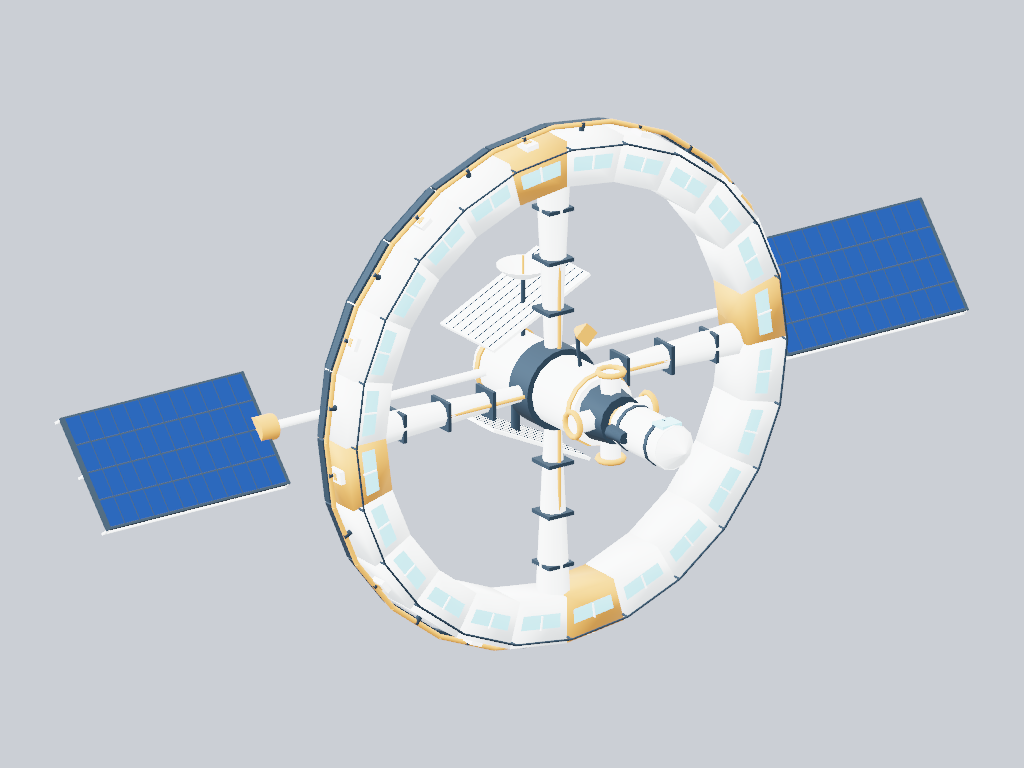
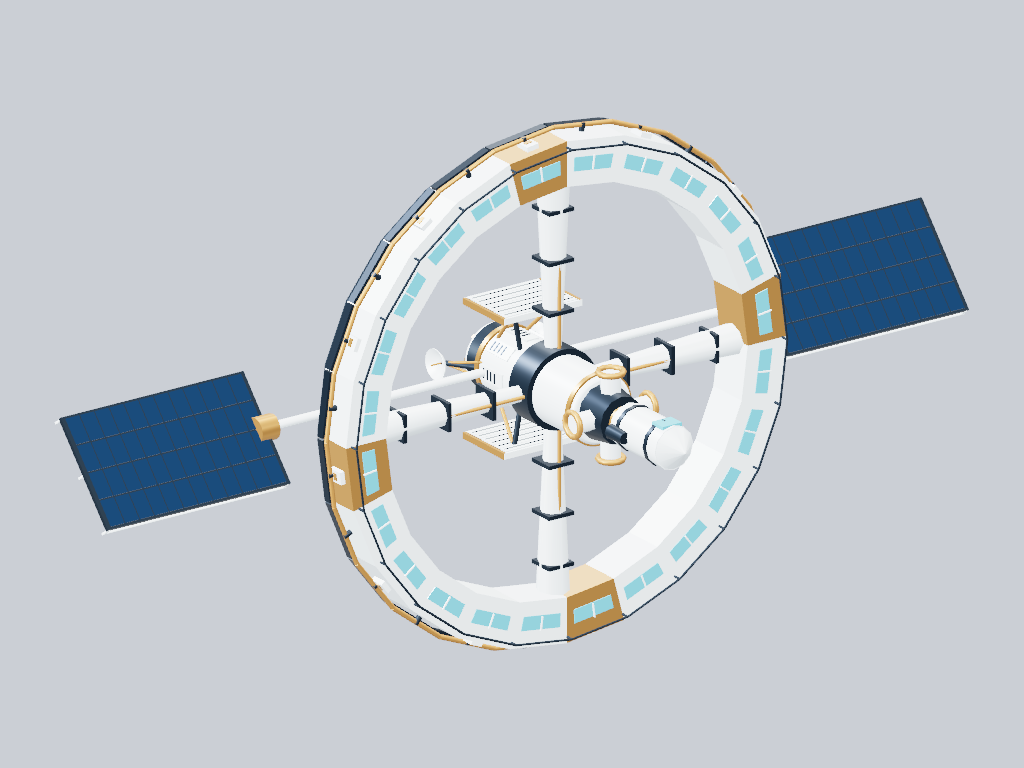
Refine orbital station rear symmetry and refresh gallery media

diff --git a/site/examples/history/orbital-station/original.kiln.js b/site/examples/history/orbital-station/original.kiln.js
@@ -1,13 +1,16 @@
 // Authored by: gpt-6-astra, via codex.
 //
-// Original model-authored station retained in site/examples/history/orbital-station.
-// Maintainer revision: Codex refinement following owner feedback on the rear assembly.
-// This revision uses the existing source and repository context.
+// Written by the model itself through the Kiln MCP tools: it wrote the
+// program, rendered it, looked at its own six-view contact sheet, and
+// revised. Not a line of it is hand-authored.
+//
+// Dispatched into a clean directory containing only the brief and the Kiln
+// skills, with no access to this repository or to any finished example.
 
 const meta = { name: 'OrbitalStation', category: 'prop' };
 function build() {
  const root=createRoot('OrbitalStation');
- const white=gameMaterial(0xbfcbd0,{metalness:0.22,roughness:0.42,flatShading:false}), dark=gameMaterial(0x202d38,{metalness:0.65,roughness:0.38,flatShading:false}), blue=gameMaterial(0x153450,{metalness:0.55,roughness:0.26,flatShading:false}), glass=gameMaterial(0x4393a5,{metalness:0.25,roughness:0.23,emissive:0x174857,emissiveIntensity:0.18,flatShading:false}), gold=gameMaterial(0xa67b44,{metalness:0.72,roughness:0.34,flatShading:false});
+ const white=gameMaterial(0xdce3e4,{roughness:0.6}), dark=gameMaterial(0x293a47,{metalness:0.6}), blue=gameMaterial(0x193f79,{metalness:0.5,roughness:0.3}), glass=gameMaterial(0x63b7c9,{emissive:0x286778,emissiveIntensity:0.35}), gold=gameMaterial(0xc58b43,{metalness:0.5});
  const frame=createPivot('Station',[0,10.25,0],root);
  const rotor=createPivot('HabitatRotor',[0,0,0],frame);
  const part=(n,g,m,p,parent=frame,r=[0,0,0])=>createPart(n,g,m,{position:p,parent,rotation:r});
@@ -16,7 +19,7 @@ function build() {
  function wedge(r0,r1,x0,x1,a0,a1) {
   const v=[];for(const x of [x0,x1])for(const r of [r0,r1])for(const a of [a0,a1])v.push(...ringPoint(x,r,a));
   const g=new THREE.BufferGeometry();g.setAttribute('position',new THREE.Float32BufferAttribute(v,3));
-  g.setIndex([0,1,3,0,3,2,4,6,7,4,7,5,0,4,5,0,5,1,2,3,7,2,7,6,0,2,6,0,6,4,1,5,7,1,7,3]);const solid=g.toNonIndexed();solid.computeVertexNormals();return solid;
+  g.setIndex([0,1,3,0,3,2,4,6,7,4,7,5,0,4,5,0,5,1,2,3,7,2,7,6,0,2,6,0,6,4,1,5,7,1,7,3]);g.computeVertexNormals();return g;
  }
  for(let i=0;i<24;i++){
   const a=i*Math.PI/12, b=(i+1)*Math.PI/12, mid=(a+b)/2;
@@ -41,25 +44,9 @@ function build() {
   beam('SpokeService'+i,[0.4,1.4,0],[0.4,8.2,0],0.08,gold,p);
   for(let j=0;j<3;j++)part('SpokeFlange'+i+'_'+j,boxGeo(1.12,0.15,1.12),dark,[0,3+j*2,0],p);
  }
- const hubShell=lathe([[0,-3.2],[1.2,-3.2],[1.35,-3.04],[1.35,3.04],[1.2,3.2],[0,3.2]],48);hubShell.rotateZ(-Math.PI/2);
- part('FixedHub',hubShell,white,[0,0,0]);
- part('RotorBearing',cylinderXGeo(1.58,1.58,1.2,48),dark,[0,0,0]);
- for(const x of [-2.9,2.9])part('HubEndBand'+x,cylinderXGeo(1.43,1.43,0.22,48),gold,[x,0,0]);
- // A recessed axial service port, surrounded by a structural annulus.
- // The dark backing sits behind the lip, so the end reads as a cavity rather than a blank cap.
- part('AftPressureBulkhead',cylinderXGeo(1.22,1.35,0.48,48),dark,[-3.38,0,0]);
- part('AftPortRecess',cylinderXGeo(0.84,0.84,0.08,48),dark,[-3.66,0,0]);
- const aftRing=(name,radius,tube,x,mat)=>part(name,torusGeo(radius,tube,8,48),mat,[x,0,0],frame,[0,90,0]);
- aftRing('AftStructuralLip',1.16,0.16,-3.68,white);
- aftRing('AftSeal',0.91,0.07,-3.72,gold);
- part('ServiceHatch',cylinderXGeo(0.64,0.64,0.06,32),white,[-3.73,0,0]);
- part('HatchSplit',boxGeo(0.025,1.08,0.035),dark,[-3.77,0,0]);
- for(let i=0;i<8;i++){
-  const a=i*Math.PI/4;
-  part('AftLatch'+i,boxGeo(0.18,0.2,0.16),gold,ringPoint(-3.83,1.13,a),frame,[a*180/Math.PI,0,0]);
-  part('HubServicePanel'+i,boxGeo(1.4,0.12,0.55),white,ringPoint(-1.98,1.34,a),frame,[a*180/Math.PI,0,0]);
-  for(let j=0;j<4;j++)part('HubVent'+i+'_'+j,boxGeo(0.065,0.025,0.38),dark,ringPoint(-2.42+j*0.23,1.415,a),frame,[a*180/Math.PI,0,0]);
- }
+ part('FixedHub',cylinderXGeo(1.35,1.35,6.4,16),white,[0,0,0]);
+ part('RotorBearing',cylinderXGeo(1.58,1.58,1.2,24),dark,[0,0,0]);
+ for(const x of [-2.9,2.9])part('HubEndBand'+x,cylinderXGeo(1.43,1.43,0.22,16),gold,[x,0,0]);
  const dock=createPivot('DockingNode',[3.7,0,0],frame);
  part('DockingManifold',cylinderXGeo(0.95,1.15,1.4,12),dark,[0,0,0],dock);
  for(let i=0;i<4;i++){
@@ -88,33 +75,19 @@ function build() {
    beam('ArrayCrossbar_'+s+'_'+j,[-2.3,-0.12,-4+j*1.14],[2.3,-0.12,-4+j*1.14],0.045,white,wing);
    beam('ArrayTruss_'+s+'_'+j,[-2.25,-0.36,-4+j],[2.25,-0.12,-3+j],0.045,white,wing);
   }
-  // Mirrored, double-sided thermal cassettes, with a visible load path to the hub.
-  const rad=createPivot('Radiator'+s,[-1.95,s*2.65,0],frame);
-  for(const z of [-0.9,0.9]){
-   beam('RadiatorRoot'+s+'_'+z,[-1.2,s*0.92,z*0.65],[-1.2,s*2.65,z],0.11,dark);
-   beam('RadiatorBrace'+s+'_'+z,[-2.85,s*0.92,z*0.65],[-1.2,s*2.65,z],0.075,gold);
-  }
-  part('ThermalCassette_'+s,boxGeo(2.55,0.2,3.5),dark,[0,0,0],rad);
-  for(const face of [-1,1]){
-   for(let j=0;j<6;j++){
-    part('ThermalTile_'+s+'_'+face+'_'+j,boxGeo(0.37,0.045,3.18),white,[-1.025+j*0.41,face*0.12,0],rad);
-    part('ThermalTube_'+s+'_'+face+'_'+j,boxGeo(0.025,0.025,3.05),dark,[-1.025+j*0.41,face*0.155,0],rad);
-   }
-  }
-  for(const z of [-1.7,1.7])part('RadiatorHeader'+s+'_'+z,boxGeo(2.62,0.25,0.12),gold,[0,0,z],rad);
-  for(const x of [-1.28,1.28])part('RadiatorEdge'+s+'_'+x,boxGeo(0.09,0.24,3.5),white,[x,0,0],rad);
+  const rad=createPivot('Radiator'+s,[-2.4,s*2.6,0],frame);rad.rotation.x=s*0.45;
+  beam('RadiatorMount'+s,[-2.4,s*1,0],[-2.4,s*2.6,0],0.18,dark);
+  part('WhiteThermalPanel_'+s,boxGeo(3.4,0.12,4.8),white,[0,0,0],rad);
+  for(let j=0;j<7;j++)part('RadiatorChannel_'+s+'_'+j,boxGeo(0.035,0.025,4.65),dark,[-1.4+j*0.46,0.075,0],rad);
  }
- // Paired communications pods flank the aft port. No isolated top mast or horn:
- // the rear service assembly is mirrored across both its vertical and lateral axes.
- for(const s of [-1,1]){
-  beam('CommsOutrigger'+s,[-2.9,0,s*1.2],[-4.15,0,s*2.05],0.12,dark);
-  for(const y of [-0.35,0.35])beam('CommsBrace'+s+'_'+y,[-2.5,y,s*1.18],[-4.15,0,s*2.05],0.055,gold);
-  const pod=createPivot('CommsPod'+s,[-4.15,0,s*2.05],frame);pod.rotation.x=s*Math.PI/2;
-  part('CommunicationsDish'+s,lathe([[0,0],[0.2,0.025],[0.43,0.13],[0.6,0.29],[0.6,0.35],[0.42,0.19],[0.18,0.085],[0,0.06]],32),white,[0,0,0],pod);
-  beam('DishFeed'+s,[0,0,0],[0,0.5,0],0.035,gold,pod);
- }
+ beam('DishMast',[-1.9,1.1,0],[-1.9,3.6,0],0.1,dark);
+ part('CommunicationsDish',lathe([[0,0],[0.3,0.04],[0.65,0.2],[1,0.48],[1,0.54],[0.64,0.26],[0.28,0.1],[0,0.07]],16),white,[-1.9,3.6,0]);
+ beam('DishFeed',[-1.9,3.6,0],[-1.9,4.5,0],0.05,gold);
+ beam('HornMast',[1.8,0.9,0],[1.8,2.8,0.2],0.09,dark);
+ part('HornAntenna',cylinderXGeo(0.48,0.12,0.7,4),gold,[2.12,2.8,0.2]);
  root.updateMatrixWorld(true);
  const bounds=new THREE.Box3().setFromObject(root);frame.position.y-=bounds.min.y;
  return root;
 }
 function animate(){ return [createClip('HabitatRotation',60,[rotationTrack('Joint_HabitatRotor',[0,15,30,45,60].map((time,i)=>({time,rotation:[i*90,0,0]})))])]; }
+

diff --git a/docs/evaluation/orbital-refinement.md b/docs/evaluation/orbital-refinement.md
@@ -1,0 +1,37 @@
+# Orbital station refinement
+
+Owner-directed refinement of the rear radiator assembly. Both radiator pivots now
+have identity rotation and positions `[-1.95, -2.65, 0]` and `[-1.95, 2.65, 0]`.
+The plates are parallel, equal-sized, and use mirrored supports. Paired communication
+dishes replace the solitary dish/horn; the hub gains a recessed service hatch,
+mechanical latches, ventilation panels, chamfered ends and smoother materials.
+
+The original and current source are retained in
+`site/examples/history/orbital-station/`. Updated provenance distinguishes the
+original authoring session from this source-aware refinement. No new provider call
+was made. This is a visual refinement, not a claim of AAA production certification.
+
+## Review outputs
+
+- README and examples page use the updated square GPU render.
+- Local site assets and hero poster rebuilt; all 62 source/GLB/poster pairs verified.
+- Local browser confirmed the new 15,040-triangle model and revision-history control.
+- Both private posting grids regenerated in `tmp/launch-kit/F-gallery-grid/`;
+  station image copies and the private media manifest updated.
+- `tmp/orbital-review/` contains before/after detail images, full hero image,
+  an optional optimized GLB and verification records. The optimized export has
+  23 mesh draws versus the editable artifact's 635, preserves 15,040 triangles,
+  bounds and the HabitatRotation clip, and has zero glTF validator errors/warnings.
+  Its reviewed GPU image differs by less than 0.0001 mean channel levels from the
+  editable artifact. It is separate from the editable gallery download.
+
+## Validation
+
+Typecheck, lint (existing warnings/information), site build, asset hash verification,
+exact GPU poster captures, radiator orientation checks and GLB validation passed.
+Local Windows full tests: 1,737 pass, 2 skip, 5 fail. The failures are four `probeRenderService`
+cases and `HTTP adapter forwards exact cameras and artifact fidelity`; each reports
+`Failed to start server. Is port 0 in use?`. No runtime implementation was changed.
+
+These results describe local review. The repository's CI and Gallery workflow
+records establish subsequent source validation and public deployment status.

diff --git a/docs/examples.md b/docs/examples.md
@@ -12,7 +12,7 @@ Browse the [interactive gallery](https://kilnstudio.tools/#/gallery), or open a 
   <td width="33%" valign="top"><a href="../examples/renders/mechanical-peacock.png"><img src="../examples/renders/mechanical-peacock.png" alt="Brass mechanical peacock with an articulated jewel-colored fan"></a><br><b><a href="../examples/mechanical-peacock.kiln.js">mechanical-peacock</a></b><br>44,688 tris &middot; Claude Opus 5<br><sub>Articulated enamel fan; neck connection repaired by a Codex maintainer agent</sub></td>
 </tr>
 <tr>
-  <td width="33%" valign="top"><a href="../examples/renders/orbital-station.png"><img src="../examples/renders/orbital-station.png" alt="a rotating-torus orbital station with lit window bands, four spokes, a docking hub and solar wings, generated by Kiln"></a><br><b><a href="../examples/orbital-station.kiln.js">orbital-station</a></b><br>10,212 tris &middot; GPT-6 Astra<br><sub>Habitat ring, solar arrays and docking modules</sub></td>
+  <td width="33%" valign="top"><a href="../examples/renders/orbital-station.png"><img src="../examples/renders/orbital-station.png" alt="a rotating-torus orbital station with lit window bands, four spokes, a docking hub and solar wings, generated by Kiln"></a><br><b><a href="../examples/orbital-station.kiln.js">orbital-station</a></b><br>15,040 tris &middot; GPT-6 Astra<br><sub>Habitat ring, solar arrays and docking modules</sub></td>
   <td width="33%" valign="top"><a href="../examples/renders/abyssal-surveyor.png"><img src="../examples/renders/abyssal-surveyor.png" alt="Custom curved hull, guarded thrusters and articulated sampling arm"></a><br><b><a href="../examples/abyssal-surveyor.kiln.js">abyssal-surveyor</a></b><br>34,456 tris &middot; GPT-6 Astra<br><sub>Custom curved hull, guarded thrusters and articulated sampling arm</sub></td>
   <td width="33%" valign="top"><a href="../examples/renders/kestrel-rescue-craft.png"><img src="../examples/renders/kestrel-rescue-craft.png" alt="Sculpted rescue aircraft with articulated tilt rotors"></a><br><b><a href="../examples/kestrel-rescue-craft.kiln.js">kestrel-rescue-craft</a></b><br>54,272 tris &middot; GPT-6 Astra<br><sub>Sculpted rescue aircraft with articulated tilt rotors</sub></td>
 </tr>

diff --git a/README.md b/README.md
@@ -17,11 +17,17 @@ the model; Kiln does not require a separate model API key for its tools.
 | --- | --- | --- |
 | [![Curved-hull survey submersible with an articulated sampling arm](examples/renders/abyssal-surveyor.png)](examples/abyssal-surveyor.kiln.js) | [![Mechanical typewriter](examples/renders/typewriter.png)](examples/typewriter.kiln.js) | [![Faceted gold solar sails supported by dark trussed spars](examples/renders/solar-sail-courier.png)](examples/solar-sail-courier.kiln.js) |
 
-<p align="center"><a href="https://kilnstudio.tools/#/mechanical-peacock"><img src="examples/renders/mechanical-peacock.png" width="460" alt="Mechanical peacock with a jewel-coloured fan and brass frame"></a></p>
+| Mechanical peacock · Claude Opus 5 | Orbital station · GPT-6 Astra |
+| --- | --- |
+| [![Mechanical peacock with a jewel-coloured fan and brass frame](examples/renders/mechanical-peacock.png)](examples/mechanical-peacock.kiln.js) | [![Orbital station with a symmetric rear service hub, paired radiators and communications dishes](examples/renders/orbital-station.png)](examples/orbital-station.kiln.js) |
 
 Mechanical peacock · Claude Opus 5. Maintainer-agent repairs connect the neck and
 correct the body shell's face direction; the [source revisions](site/examples/history/mechanical-peacock/history.json)
 record the original and repaired programs.
+
+Orbital station · Codex refinement following owner art direction: mirrored rear
+assemblies, a recessed service hatch, supported radiators and smoother material finish.
+The [source revisions](site/examples/history/orbital-station/history.json) retain the original.
 
 [Browse the interactive gallery](https://kilnstudio.tools/#/gallery)
 · [All examples and model credits](docs/examples.md)
